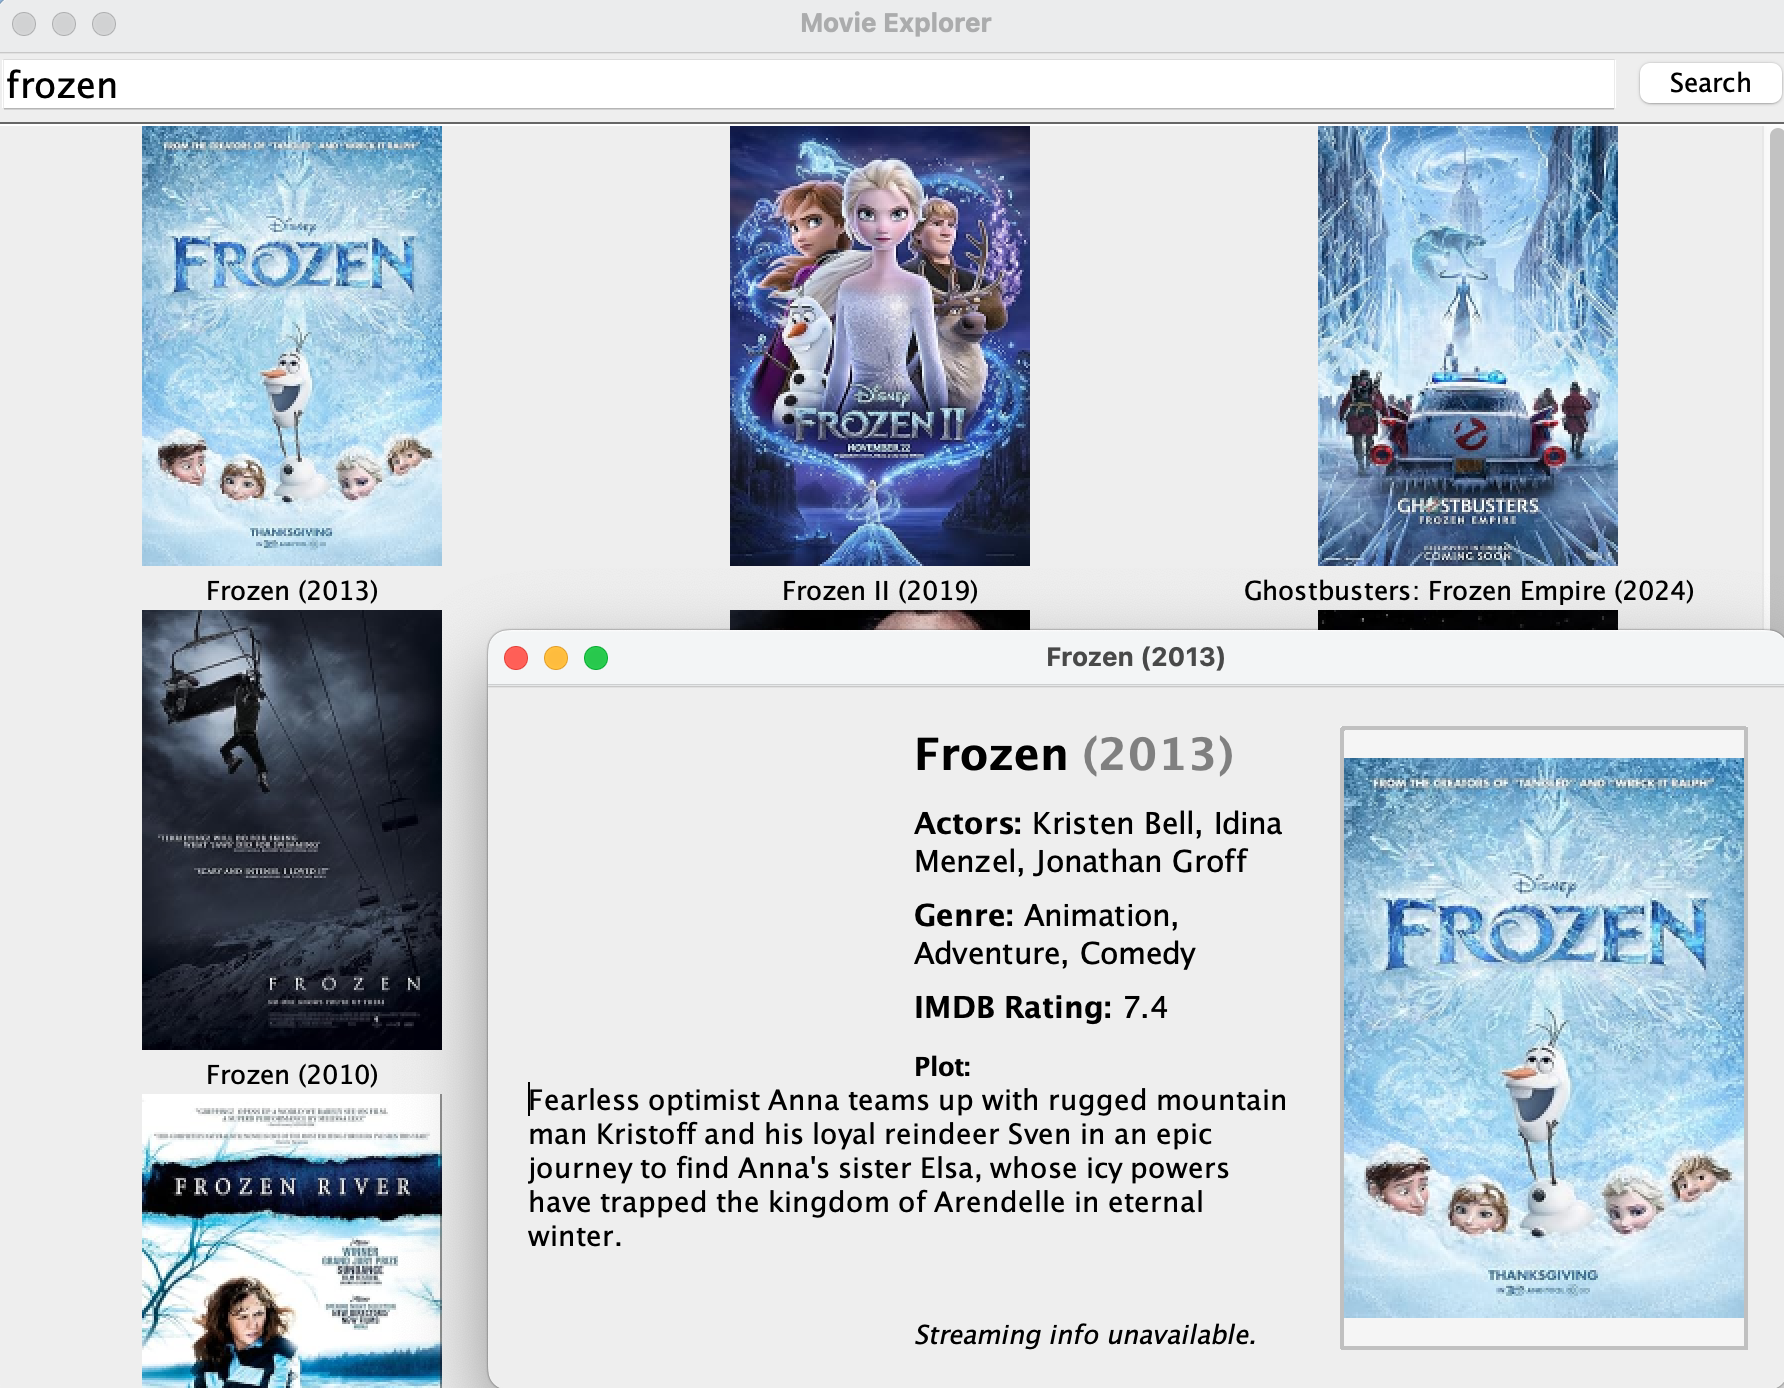
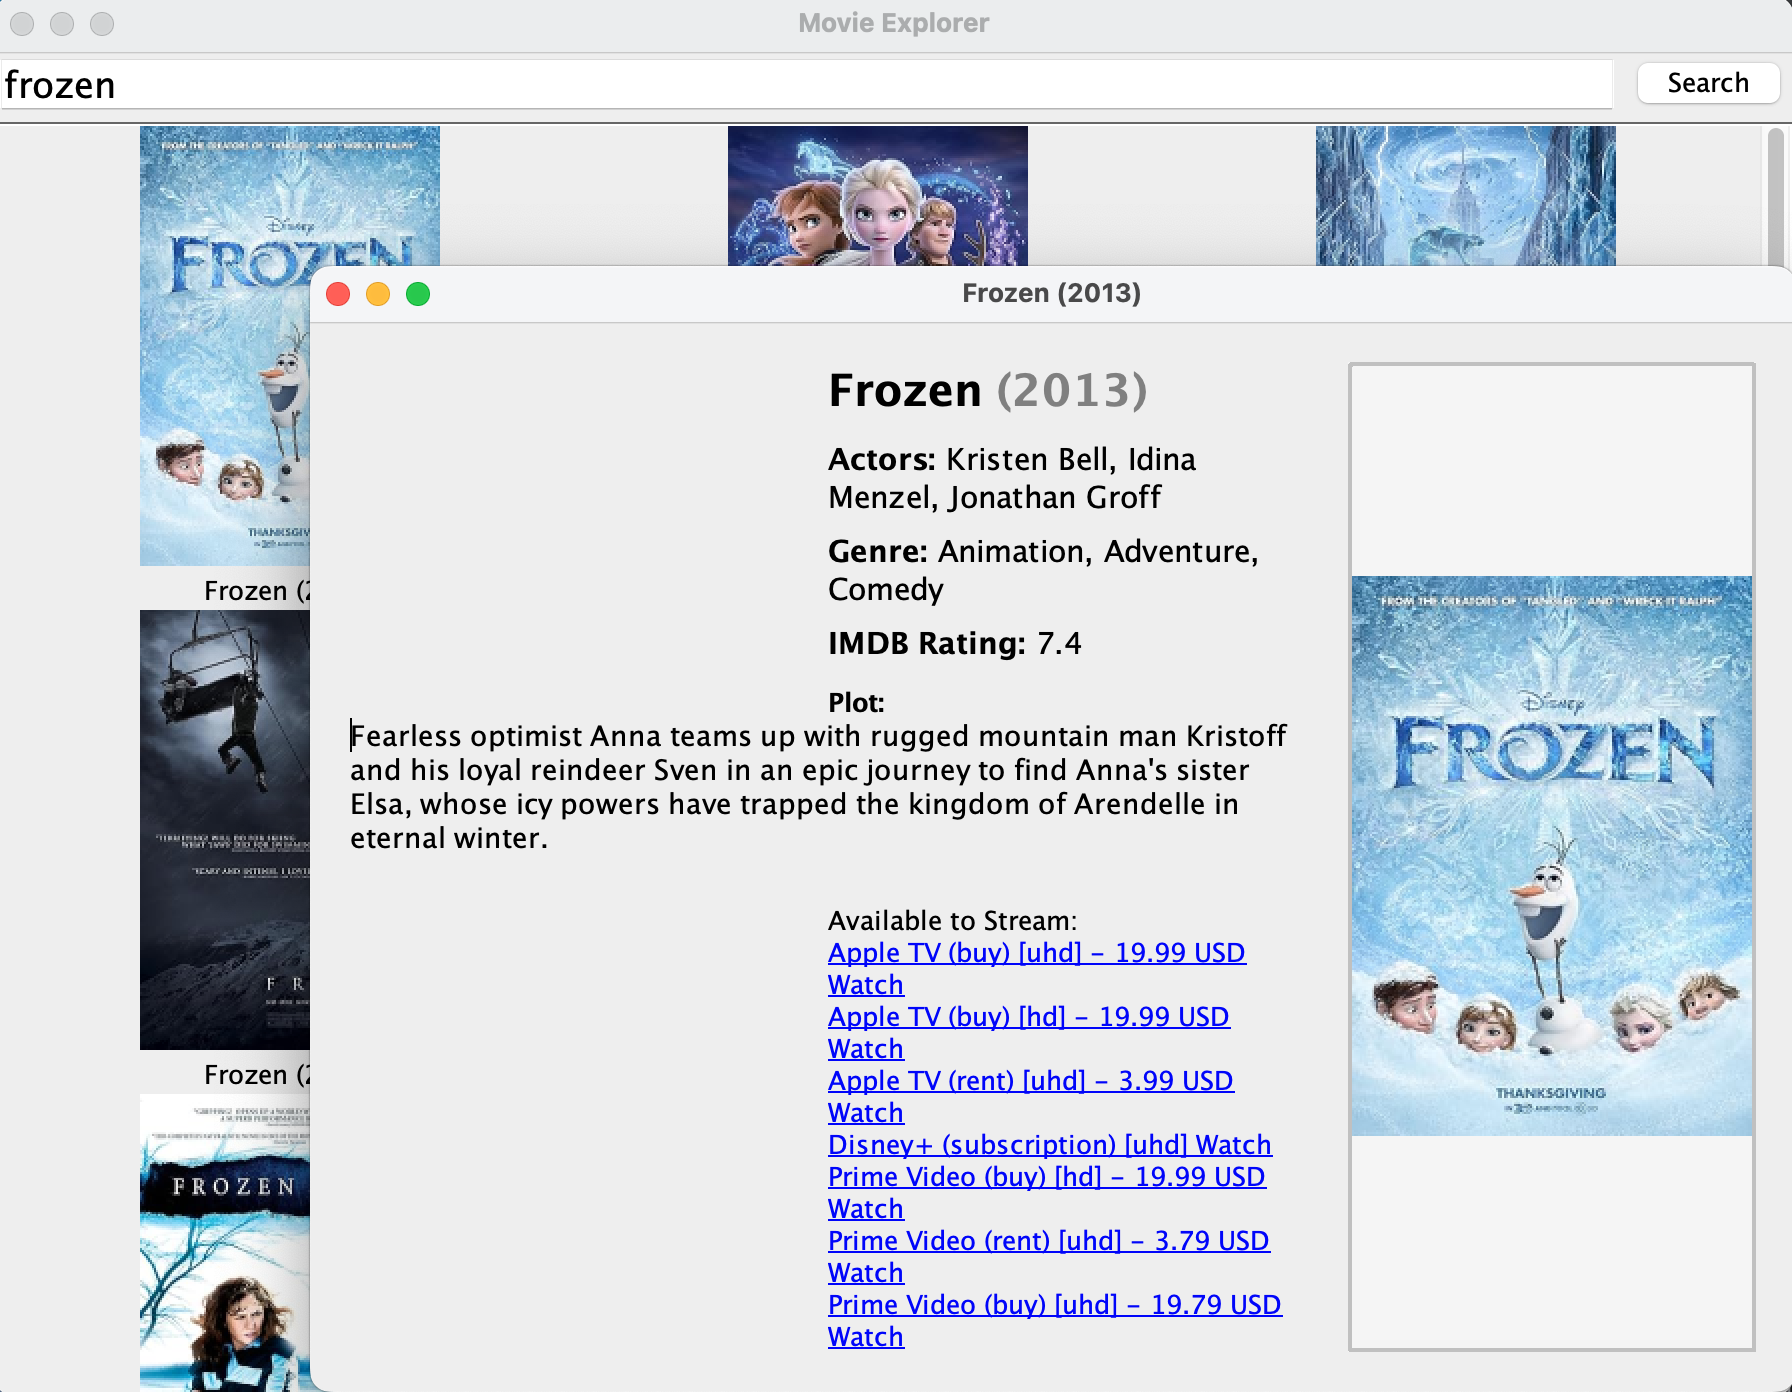
updated code

diff --git a/src/main/java/remer/movieexplorer/MovieDetailFrame.java b/src/main/java/remer/movieexplorer/MovieDetailFrame.java
@@ -25,7 +25,7 @@ public class MovieDetailFrame extends JFrame
     {
         setTitle(movie.title + " (" + movie.year + ")");
         setDefaultCloseOperation(JFrame.DISPOSE_ON_CLOSE);
-        setSize(650, 380);
+        setSize(750, 400);
 
         // Main content panel with padding
         JPanel content = new JPanel(new BorderLayout(20, 0));
@@ -123,7 +123,7 @@ public class MovieDetailFrame extends JFrame
 
         // Get and display the streaming info
         String host = "streaming-availability.p.rapidapi.com";
-        streamingService.getStreamingInfo("movie", movie.imdbId, streamingApiKey, host)
+        streamingService.getStreamingInfo(movie.imdbId, "us", streamingApiKey, host)
                 .subscribeOn(Schedulers.io())
                 .observeOn(Schedulers.from(SwingUtilities::invokeLater))
                 .subscribe(
@@ -146,17 +146,25 @@ public class MovieDetailFrame extends JFrame
         System.out.println("ShowResponse: " + response);
 
         streamingPanel.removeAll();
-        List<StreamingOption> options = (response != null) ? response.streamingOptions : null;
+        List<StreamingOption> options = null;
+        if (response.streamingOptions != null)
+        {
+            options = response.streamingOptions.get("us");
+        }
         if (options == null || options.isEmpty())
         {
             streamingPanel.add(new JLabel("<html><i>Not available to stream.</i></html>"));
         } else {
-            streamingPanel.add(new JLabel("<html><b>Available to Stream:</b></html>"));
+            streamingPanel.add(new JLabel("Available to Stream:"));
             for (StreamingOption option : options)
             {
                 StringBuilder sb = new StringBuilder();
-                sb.append("<html>")
-                        .append(option.service != null ? option.service : "Unknown");
+                String serviceName = "Unknown";
+                if (option.service != null && option.service.has("name")) {
+                    serviceName = option.service.get("name").getAsString();
+                }
+
+                sb.append("").append(serviceName);
                 if (option.type != null)
                 {
                     sb.append(" (").append(option.type).append(")");
@@ -165,17 +173,35 @@ public class MovieDetailFrame extends JFrame
                 {
                     sb.append(" [").append(option.quality).append("]");
                 }
-                if (option.price != null)
+                if (option.price != null && option.price.formatted != null)
                 {
-                    sb.append(" - ").append(option.price);
+                sb.append(" - ").append(option.price.formatted);
                 }
                 if (option.link != null)
                 {
-                    sb.append(" <a href='").append(option.link).append("'>Watch</a>");
+                    sb.append(" Watch");
                 }
-                sb.append("</html>");
-                JLabel lbl = new JLabel(sb.toString());
+                sb.append("");
+
+                JLabel lbl = new JLabel("<html><u>" + sb.toString() + "</u></html>");
+                lbl.setForeground(Color.BLUE);
+                lbl.setCursor(Cursor.getPredefinedCursor(Cursor.HAND_CURSOR));
+
+                if (option.link != null && !option.link.isEmpty()) {
+                    String url = option.link;
+                    lbl.addMouseListener(new java.awt.event.MouseAdapter() {
+                        @Override
+                        public void mouseClicked(java.awt.event.MouseEvent e) {
+                            try {
+                                Desktop.getDesktop().browse(new java.net.URI(url));
+                            } catch (Exception ex) {
+                                JOptionPane.showMessageDialog(streamingPanel, "Could not open link: " + ex.getMessage());
+                            }
+                        }
+                    });
+                }
                 streamingPanel.add(lbl);
+
             }
         }
         streamingPanel.revalidate();

diff --git a/src/test/java/remer/movieexplorer/StreamingInfoServiceTest.java b/src/test/java/remer/movieexplorer/StreamingInfoServiceTest.java
@@ -1,0 +1,38 @@
+package remer.movieexplorer;
+
+import com.andrewoid.apikeys.ApiKey;
+import org.junit.jupiter.api.Test;
+import remer.movieexplorer.json.ShowResponse;
+
+import static org.junit.jupiter.api.Assertions.assertNotNull;
+import static org.junit.jupiter.api.Assertions.assertTrue;
+
+public class StreamingInfoServiceTest
+{
+    @Test
+    public void getStreamingInfoReturnsResults()
+    {
+        // given
+        StreamingInfoService service = new StreamingInfoServiceFactory().getService();
+        ApiKey streamingApiKey = new ApiKey("streaming_api_key");
+        String apiKeyString = streamingApiKey.get();
+        String host = "streaming-availability.p.rapidapi.com";
+        String imdbId = "tt2294629"; // Ex: Frozen (2013)
+        String country = "us";
+
+        // when
+        ShowResponse response = service.getStreamingInfo(
+                imdbId,
+                country,
+                apiKeyString,
+                host
+        ).blockingGet();
+
+        // then
+        assertNotNull(response, "ShowResponse should not be null");
+        assertNotNull(response.streamingOptions, "Streaming options should not be null");
+        assertTrue(response.streamingOptions.containsKey(country), "Should contain country key");
+        assertNotNull(response.streamingOptions.get(country), "Streaming options list should not be null");
+        assertTrue(response.streamingOptions.get(country).size() > 0, "Should return at least one streaming option");
+    }
+}

diff --git a/src/main/java/remer/movieexplorer/StreamingInfoService.java b/src/main/java/remer/movieexplorer/StreamingInfoService.java
@@ -5,14 +5,16 @@ import remer.movieexplorer.json.ShowResponse;
 import retrofit2.http.GET;
 import retrofit2.http.Header;
 import retrofit2.http.Path;
+import retrofit2.http.Query;
 
 public interface StreamingInfoService
 {
-    @GET("shows/{type}/{id}")
+    @GET("shows/{imdbId}")
     Single<ShowResponse> getStreamingInfo(
-            @Path("type") String type,
-            @Path("id") String imdbId,
-            @Header("x-rapidapi-key") String apiKey,
-            @Header("x-rapidapi-host") String host
+            @Path("imdbId") String imdbId,
+            @Query("country") String country,
+            @Header("X-RapidAPI-Key") String apiKey,
+            @Header("X-RapidAPI-Host") String host
     );
+
 }

diff --git a/src/main/java/remer/movieexplorer/json/StreamingOption.java b/src/main/java/remer/movieexplorer/json/StreamingOption.java
@@ -1,11 +1,12 @@
 package remer.movieexplorer.json;
 
+import com.google.gson.JsonObject;
 import com.google.gson.annotations.SerializedName;
 
 public class StreamingOption
 {
     @SerializedName("service")
-    public String service;
+    public JsonObject service;
 
     @SerializedName("type")
     public String type;
@@ -17,7 +18,7 @@ public class StreamingOption
     public String quality;
 
     @SerializedName("price")
-    public String price;
+    public Price price;
 
     @SerializedName("addOn")
     public String addOn;

diff --git a/src/main/java/remer/movieexplorer/json/ShowResponse.java b/src/main/java/remer/movieexplorer/json/ShowResponse.java
@@ -2,16 +2,17 @@ package remer.movieexplorer.json;
 
 import com.google.gson.annotations.SerializedName;
 import java.util.List;
+import java.util.Map;
 
 public class ShowResponse
 {
-    @SerializedName("imdb_id")
+    @SerializedName("imdbId")
     public String imdbId;
 
     @SerializedName("title")
     public String title;
 
-    @SerializedName("streaming_options")
-    public List<StreamingOption> streamingOptions;
+    @SerializedName("streamingOptions")
+    public Map<String, List<StreamingOption>> streamingOptions;
 }
 

diff --git a/src/main/java/remer/movieexplorer/json/Price.java b/src/main/java/remer/movieexplorer/json/Price.java
@@ -1,0 +1,9 @@
+package remer.movieexplorer.json;
+
+import com.google.gson.annotations.SerializedName;
+
+public class Price
+{
+    @SerializedName("formatted")
+    public String formatted;
+}

diff --git a/README.md b/README.md
@@ -13,7 +13,8 @@ When viewing movie details, Movie Explorer gets real-time streaming availability
 ![Details Popup](screenshots/detail_screenshot.png)
 
 ### Movie Streaming Screen 
-![Streaming Screen](screenshots/streaming_screenshot.png)
+![Streaming Information](screenshots/streaming_screenshot.png)
+
 
 ## Authors
 **Bella Remer**
